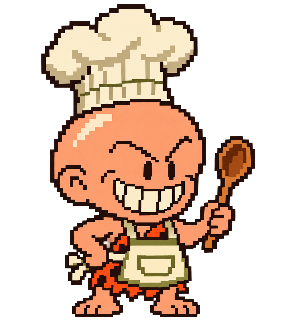
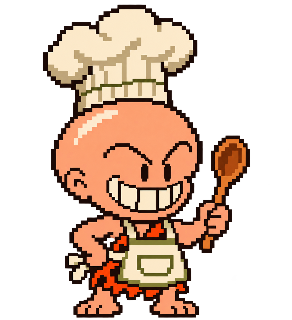
Refine Bonk artwork and feature hardware validation
Add the Bonk 4 teaser below Cartridge 001, show dancing Bomberman on the PVM screen, credit the owner's hardware validation, and promote Community Spotlight to a responsive heading.

diff --git a/docs/index.html b/docs/index.html
@@ -4,7 +4,7 @@
 <meta charset="utf-8"><meta name="viewport" content="width=device-width,initial-scale=1">
 <meta name="theme-color" content="#f3e9cd"><meta name="description" content="To the Limit: experimental turbo cores for MiSTer FPGA. Download builds, inspect the source, and give your favorite games a little more headroom.">
 <title>To the Limit — MiSTer Turbo Cores</title>
-<link rel="icon" href="assets/favicon.svg" type="image/svg+xml"><link rel="stylesheet" href="style.css?v=20261107-downloads"><script src="app.js?v=20261029" defer></script>
+<link rel="icon" href="assets/favicon.svg" type="image/svg+xml"><link rel="stylesheet" href="style.css?v=20261107-bonk"><script src="app.js?v=20261029" defer></script>
 </head>
 <body>
 <a class="skip" href="#main">Skip to content</a>
@@ -32,17 +32,19 @@
     <div class="spec-grid"><div><span>BUILD</span><strong>261106SP1</strong></div><div><span>GAME FORMAT</span><strong>HuCARD</strong></div><div><span>SAVE SLOTS</span><strong>FOUR · SD CARD</strong></div><div><span>CPU TURBO</span><strong>OFF / +20% / +50%</strong></div></div>
     <div class="download-actions"><a class="button lime" href="downloads/TTL_SavePoint_TurboGrafx16_20261106.rbf" download>DOWNLOAD .RBF <span>↓</span></a></div>
     <div class="build-notice"><span>SD PERSISTENCE</span> Let MiSTer finish writing the save state to SD before reloading or powering off.</div>
-    <div class="pvm-report"><img src="assets/pixel-pvm-1390.webp" width="320" height="292" alt="Pixel art of a Sony PVM-1390"><div><span class="eyebrow">A NOTE FROM THE TEST BENCH</span><p>The preceding build held sync during saves and loads on THE OWNERS’ Sony PVM, and CPU Turbo worked. This RBF passed Quartus timing checks and awaits its own hardware test.</p></div></div>
+    <div class="pvm-report"><img src="assets/pixel-pvm-1390.webp?v=20261107-bomberman" width="320" height="292" alt="Pixel art of a Sony PVM-1390 showing Bomberman dancing on its screen"><div><span class="eyebrow">HARDWARE VALIDATED</span><p>THE OWNER has hardware-validated this build on their Sony PVM. The RBF also passed Quartus timing checks.</p></div></div>
   </div>
 </article>
 <aside class="build-notice kitchen-teaser" id="thanksgiving-teaser" aria-labelledby="kitchen-title">
-  <img class="kitchen-bonk" src="assets/pixel-bonk-chef.webp" width="292" height="320" alt="Pixel art of Bonk wearing a chef’s hat and apron and holding a wooden spoon">
+  <img class="kitchen-bonk" src="assets/pixel-bonk-chef.webp?v=20261107-bonk" width="292" height="320" alt="Pixel art of Bonk wearing a chef’s hat and apron and holding a wooden spoon">
   <div><span class="kitchen-kicker" id="kitchen-title">FROM THE TURBO CLUB KITCHEN</span><b>Thanksgiving is coming.</b> A few more curious delights are cooking here at To the Limit. Save a little room.</div>
 </aside>
 <div class="section-heading other-tests" id="other-test-cores"><div><p class="eyebrow">EARLIER EXPERIMENTS / STILL AVAILABLE</p><h2>OTHER TEST CORES.</h2></div><p>Earlier builds, kept here for comparison.<br>Use separate save files for different snapshot formats.</p></div>
 <article class="featured" id="cartridge-001"><div class="core-art" aria-hidden="true"><span class="art-index">CARTRIDGE 001</span><div class="cartridge"><div class="cart-label"><span>PC ENGINE / TG16</span><strong>16</strong><div class="cart-bars"></div><small>TO THE LIMIT // TURBO</small></div><div class="cart-grip"></div></div><span class="art-caption">A SMALL CARTRIDGE. A GRAND EXPERIMENT.</span></div><div class="core-detail"><div class="badges"><span class="badge badge-lime">CUSTOM BUILD</span><span class="badge">EXPERIMENTAL</span></div><h3>TURBOGRAFX-16</h3><p class="subtitle">PC Engine gets a second wind.</p><p>Optional CPU acceleration for busy scenes, with the existing Extra sprite mode to reduce sprite-limit flicker. Built on the official MiSTer core.</p><div class="spec-grid"><div><span>CPU TURBO</span><strong>+20% / +50%</strong></div><div><span>VIDEO / AUDIO CLOCKS</span><strong>UNCHANGED</strong></div><div><span>BUILD</span><strong>2026.10.29</strong></div><div><span>HARDWARE FEEDBACK</span><strong>+50% INITIAL BUILD¹</strong></div><div><span>SPRITE DEFAULT</span><strong>EXTRA</strong></div><div><span>CPU TURBO DEFAULT</span><strong>OFF</strong></div></div><div class="download-actions"><a class="button lime" href="downloads/TTL_TurboGrafx16_ExtraSprites_20261029_EXPERIMENTAL.rbf" download>DOWNLOAD .RBF <span>↓</span></a></div><p class="fine-print">¹ THE OWNER reports +50% working on the initial binary. This Extra-default revision awaits hardware testing; gameplay gains are not measured.</p><div class="build-notice"><span>EXTRA SPRITES, FROM THE START</span><b>Extra is now the default.</b> Select Normal any time for the original sprite limit. Your CPU Turbo selection is preserved.</div></div></article>
+<aside class="bonk-rpg-teaser" aria-labelledby="bonk-rpg-title"><h3 id="bonk-rpg-title">Bonk 4? The Role Playing Game?</h3></aside>
 <article class="featured" id="cartridge-002"><div class="savestate-marquee"><span class="marquee-star" aria-hidden="true">✦</span><div><span class="marquee-kicker">FOR CURIOUS TRAVELLERS</span><strong>A POST-SPOOKY<br>SURPRISE</strong><span class="marquee-sub">ONE SLOT. KEEP PLAYING.</span></div><span class="marquee-star" aria-hidden="true">✦</span></div><div class="core-art" aria-hidden="true"><span class="art-index">CARTRIDGE 002</span><div class="cartridge"><div class="cart-label"><span>PC ENGINE / TG16</span><strong>16</strong><div class="cart-bars"></div><small>TO THE LIMIT // SAVE STATES</small></div><div class="cart-grip"></div></div><span class="art-caption">CURIOUS TRAVELLERS WELCOME.</span></div><div class="core-detail"><div class="badges"><span class="badge badge-lime">IN-MEMORY SAVE STATE</span><span class="badge">EXPERIMENTAL</span><img class="halloween-pumpkin" src="assets/pixel-halloween-pumpkin.svg" width="52" height="52" alt="A smiling pixel Halloween jack-o’-lantern"></div><h3>TURBOGRAFX-16</h3><p class="subtitle">A post-spooky surprise: your adventure, kept.</p><p>Working in-memory save states, as reported by THE OWNER, with CPU Turbo and Extra sprites. This is the original Ninja Spirit test build: one nonpersistent slot, saved with F5 and restored with F8.</p><p><b>See TTL SavePoint for the protocol 3 build.</b> This in-memory experiment has limited validation, so keep disposable progress and stop if restoration causes slowdown, instability or a lock-up.</p><div class="spec-grid"><div><span>BUILD</span><strong>2026.10.29</strong></div><div><span>RELEASE</span><strong>IN-MEMORY SAVE STATE</strong></div><div><span>SAVE SLOTS</span><strong>ONE · IN MEMORY</strong></div><div><span>VALIDATION</span><strong>TESTED BY THE OWNER</strong></div></div><div class="download-actions"><a class="button lime" href="downloads/TTL_TurboGrafx16_NinjaSpirit_SaveStates_20261029_EXPERIMENTAL.rbf" download>DOWNLOAD .RBF <span>↓</span></a></div><p class="fine-print">4.0 MB · Original 2026.10.29 binary and matching source. No SD save-state persistence.</p><div class="pvm-report"><img src="assets/pixel-pvm.svg" width="160" height="156" alt="Pixel-art Sony PVM-1953MD-style monitor with cream bezel and lower control panel"><div><span class="eyebrow">A NOTE FROM THE TEST BENCH</span><p><b>Earlier interim tested on MiSTer with THE OWNERS’ Sony PVM.</b><br>That feedback applies to the earlier build and the games tested.</p></div></div><div class="build-notice"><span>BEFORE YOU EXPLORE</span><b>The snapshot is temporary.</b> Reset, core reload, power-off, ROM changes and certain configuration changes clear it. Back up normal saves; never use a snapshot as your only copy of progress. Ninja Spirit HuCard testing only; no CD or broad compatibility claim.</div></div></article>
-<article class="community"><div class="community-number" aria-hidden="true">64</div><div><span class="badge">COMMUNITY SPOTLIGHT</span><h3>N64 94MHz+</h3><p>Corn's turbo work, built on Robert Peip's N64 core. A separate community project, linked here with credit to its creators.</p></div><a class="button outline" href="https://github.com/MiSTer-devel/N64_MiSTer">VISIT UPSTREAM <span>↗</span></a></article>
+<div class="section-heading community-heading"><h2 id="community-title">COMMUNITY SPOTLIGHT</h2></div>
+<article class="community" aria-labelledby="community-title"><div class="community-number" aria-hidden="true">64</div><div><h3>N64 94MHz+</h3><p>Corn's turbo work, built on Robert Peip's N64 core. A separate community project, linked here with credit to its creators.</p></div><a class="button outline" href="https://github.com/MiSTer-devel/N64_MiSTer">VISIT UPSTREAM <span>↗</span></a></article>
 </section>
 <section class="lab" id="how"><div class="wrap lab-grid"><div><p class="eyebrow">CHAPTER II / THE MECHANICS</p><h2>TURN UP<br>THE HEADROOM.</h2><p>Turbo gives eligible CPU cycles a shorter divider. It doesn't change the video refresh rate or make every game 50% faster.</p><p>ROM reads can still wait on memory. Timing-sensitive games may behave differently. The stock-speed setting is always one menu away.</p><span class="lab-caption">TRY THE SELECTOR →<br>IDEAL CPU RATE, BEFORE MEMORY WAITS</span></div><div class="turbo-console"><div class="console-title"><span>CPU CONTROL PANEL</span><span class="led"></span></div><div class="mode-switch" role="group" aria-label="Explore ideal CPU turbo rates"><button type="button" data-mode="0" aria-pressed="false">OFF</button><button type="button" data-mode="1" aria-pressed="false">+20%</button><button type="button" data-mode="2" aria-pressed="true">+50%</button></div><div class="frequency"><output id="frequency" aria-live="polite">10.739</output><span>MHz</span></div><div class="meter" aria-hidden="true"><div id="meter-fill"></div></div><div class="console-stats"><span>HIGH-SPEED DIVISOR <b id="divisor">4</b></span><span>STOCK BASELINE <b>7.159 MHz</b></span></div><p class="console-note" id="mode-note">+50% mode: eligible cycles use 4 master clocks. Memory waits still apply.</p><p class="tiny">Illustration only. This control does not configure your MiSTer.</p></div></div></section>
 <section class="wrap install-section" id="install"><div class="section-heading"><div><p class="eyebrow">CHAPTER III / ARRIVAL INSTRUCTIONS</p><h2>LOAD. TWEAK. PLAY.</h2></div><span class="insert-coin">PLEASE MAKE YOURSELF AT HOME.</span></div><ol class="steps"><li><span class="step-no">01</span><h3>KEEP A BACKUP.</h3><p>Keep a copy of your stock TurboGrafx RBF. Copy the RBF into <code>_Console</code> and launch it.</p></li><li><span class="step-no">02</span><h3>SET YOUR PACE.</h3><p>Open <b>Hardware → CPU Turbo</b>. Start at +20%, then compare +50%. <b>Extra sprites are enabled by default.</b> Select Normal if you want the original sprite limit.</p></li><li><span class="step-no">03</span><h3>HIT A BUSY SCENE.</h3><p>Try the same Ninja Spirit scene at Off and turbo. Compare slowdown, sound, controls and stability. Return to Off if issues appear.</p></li></ol><div class="test-strip"><span class="test-mark">✓</span><div><strong>BUILT, CHECKED, STILL EXPERIMENTAL.</strong><p>Earlier CPU-turbo tests passed 10 regression scenarios and 900 SDRAM reads. Cartridge 002 has its own matching reports and limitations above. These are not hardware-compatibility guarantees; full game and CD compatibility remain open.</p></div><a href="https://github.com/pxpxpxp/to-the-limit/issues">REPORT A RESULT ↗</a></div></section>

diff --git a/docs/style.css b/docs/style.css
@@ -34,3 +34,5 @@
 .kitchen-bonk{display:block;width:112px;height:auto;flex:0 0 112px;image-rendering:pixelated}
 .kitchen-kicker{display:block;font-size:9px;letter-spacing:1.3px;color:#a0614b;margin-bottom:4px}
 @media(max-width:480px){.kitchen-teaser{gap:12px;padding:10px 12px}.kitchen-bonk{width:84px;flex-basis:84px}}
+
+.bonk-rpg-teaser{margin:20px 0 32px;padding:22px 24px;background:#efe2c5;border:1px dashed #bc9d73;text-align:center}.bonk-rpg-teaser h3{margin:0;font:clamp(15px,2.1vw,22px)/1.6 Limit,monospace;color:#763c39;overflow-wrap:anywhere}.community-heading{margin-top:48px}.community-heading h2{font-size:clamp(22px,3.6vw,38px);line-height:1.45;overflow-wrap:anywhere}
